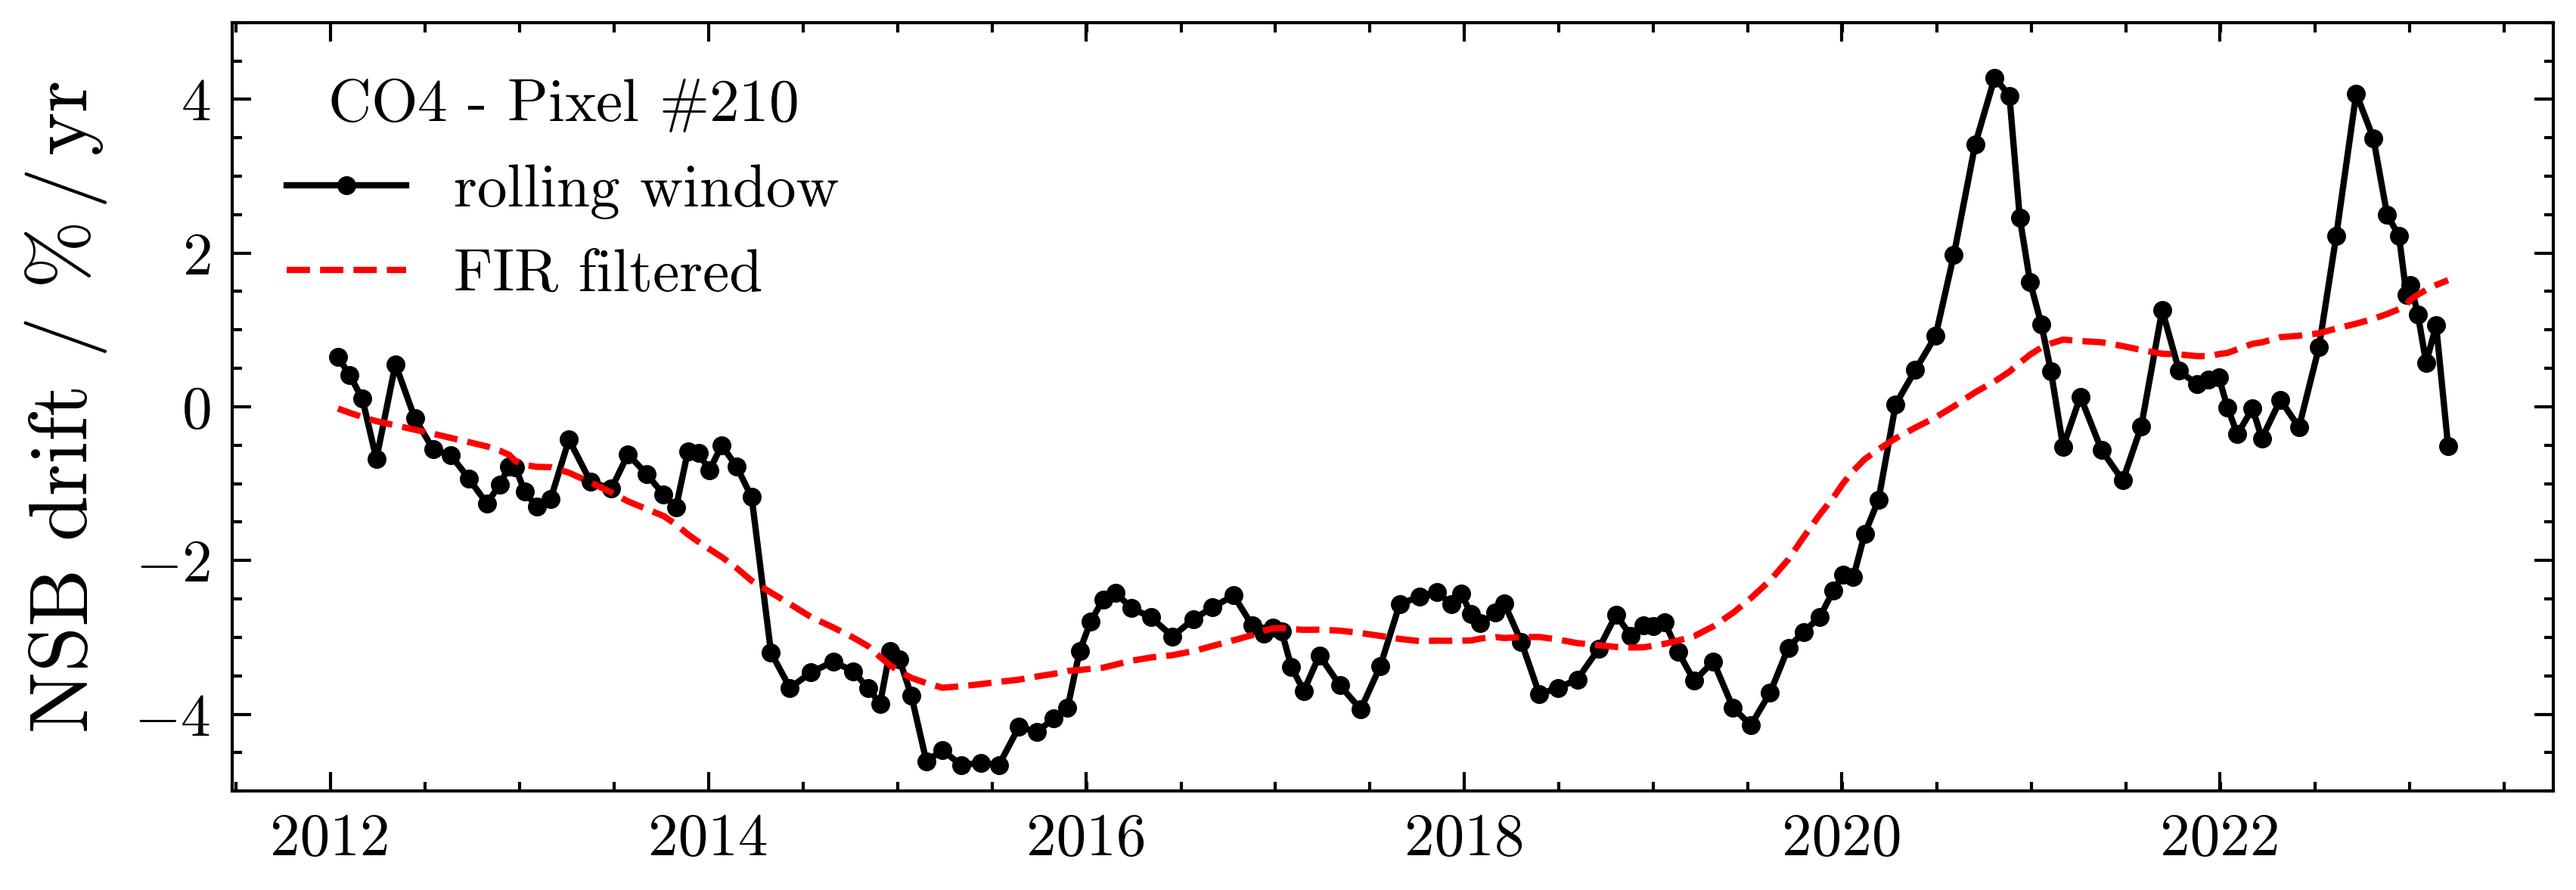
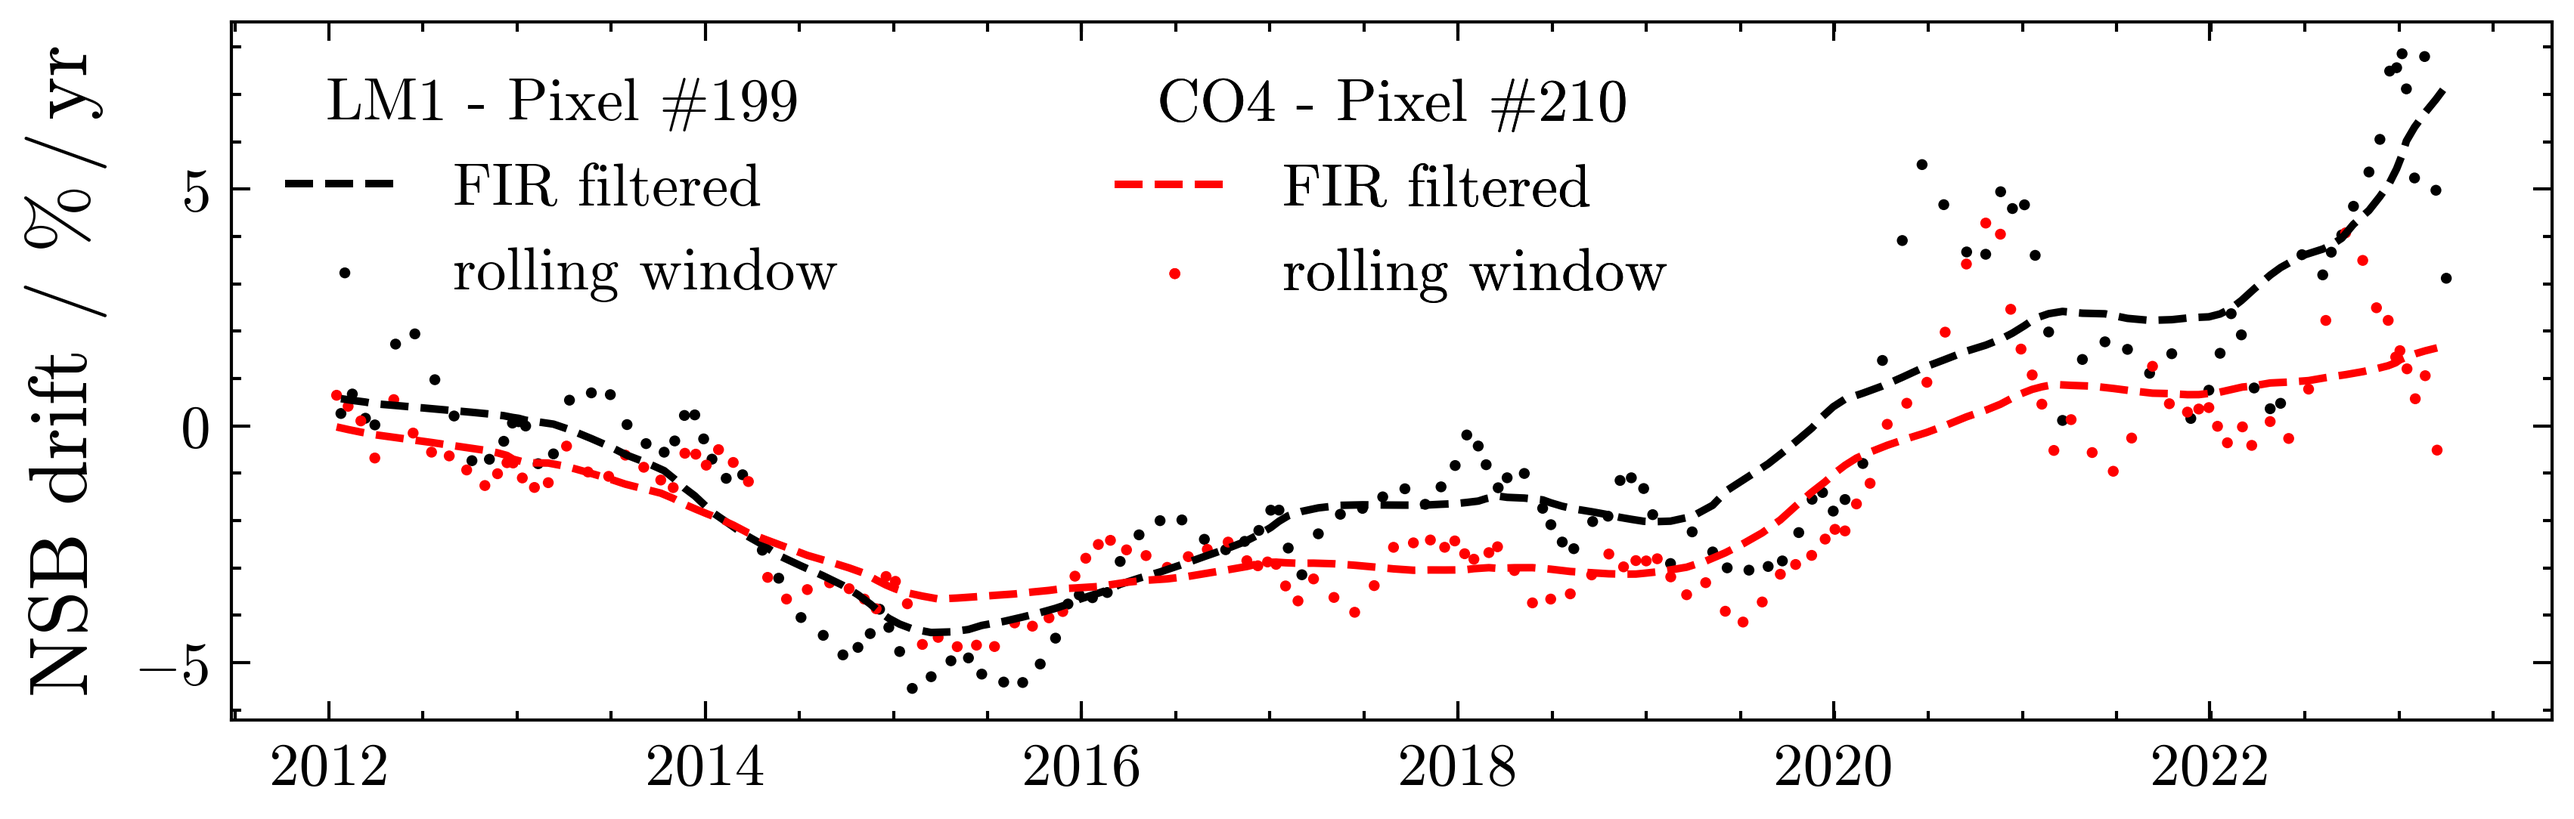
rolling window

diff --git a/chap/04-determination-of-absolute-energy-scale.tex b/chap/04-determination-of-absolute-energy-scale.tex
@@ -1174,32 +1174,24 @@ the linear fit on this sub-sample. Examples of this are shown in
 
 \begin{figure}[t]
   \centering
-  \subfloat[]{\includegraphics[width=1.0\textwidth]{xy-scanner/rolling_window_drift_co4.png}
-  \label{fig:rolling-window-drift-co4}
-  }\hspace{0.2cm}
-  \subfloat[]{\includegraphics[width=1.0\textwidth]{xy-scanner/rolling_window_drift_lm1.png}
-  \label{fig:rolling-window-drift-lm1}
-  }
-  \caption[]{Time dependency of the slope in the linear fit to the \NSB dataset
-  in \subref{fig:rolling-window-drift-co4} pixel \#210 in \CO4, and 
-  \subref{fig:rolling-window-drift-lm1} pixel \#199 in \LM1. The red line gives
+  \includegraphics[width=1.0\textwidth]{xy-scanner/rolling_window_drift.png}
+  \caption{Time dependency of the slope in the linear fit to the \NSB dataset
+  in pixel \#199 in \LM1 (black) and \#210 in \CO4 (red). The dashed lines give
   a smoothed trend.}
   \label{fig:rolling-window-drift}
-\end{figure}
+\end{figure}	
 
 The evident time-dependency of the fitted slope immediately call the assumption
 of a constant drift into question. While a (linear?) drift does seem to be 
 inherent to $\upsigma^2_\mathrm{NSB}$, the rate of ageing cannot be constant.
 
-Worse still, the temporal evolution in \cref{fig:rolling-window-drift-co4} and 
-\cref{fig:rolling-window-drift-lm1} look similar, but in detail are site- and 
-pixel-dependent. 
-
-Using instead a \FIR Savitzky-Golay filter with window length 24 months and 
-polynomial order of one, we can coarsely subdivide the datasets into epochs 
-where the drift magnitude is decreasing, stable, or increasing. The reasons for
-these trends may be multifaceted. A list of candidate causes (without any order
-of importance or significance) can be found below:
+Worse still, the temporal evolution in \cref{fig:rolling-window-drift} look 
+similar, but in detail are site- and pixel-dependent. Using a \FIR 
+Savitzky-Golay filter with window length 24 months and polynomial order of one,
+we can coarsely subdivide the datasets into epochs where the drift magnitude is
+decreasing, stable, or increasing. The reasons for these trends may be 
+multifaceted. A list of candidate causes (without any order of importance or 
+significance) can be found below:
 
 \begingroup
 \renewcommand\arraystretch{2}
@@ -1311,9 +1303,27 @@ the XY-Scanner due to the relative tracking algorithm failing to account for
 the ageing of telescope components.\footnote{The only ageing being tracked by
 the calibration A is that of the pixel-\PMTs.}
 
-`
+We quantify how this mismatch between measured and used calibration constants
+affects reconstructed quantities in the following section, and offer an 
+alternative tracking algorithm for the $C^i_\mathrm{abs}$. Finally, we analyze
+how shower quantities change when using the updated calibration constants 
+during event reconstruction.
 
 \subsection{Alternative Tracking Algorithm}
+
+The current \FD calibration tracking algorithm, which employs the signal 
+strength $S_\mathrm{LCU}$ of the calibration A light source, as well as the 
+detected signal $S_\mathrm{CalA}$ in the telescope camera is given in 
+\cref{eq:cal-a-propagation}. Naively, this algorithm can be amended to
+introduce an end-to-end tracker of the telescope sensitivity, namely the \NSB 
+introduced in \cref{sec:night-sky-background}.
+
+\begin{equation}
+\label{eq:nsb-tracking}
+C^i_\mathrm{abs} = C^i_\mathrm{ref}\,\cdot\,\frac{\upsigma^2_{\mathrm{NSB}\,\mathrm{ref}}}{\upsigma^2_{\mathrm{NSB}}} 
+\end{equation}
+
+
 
 \subsubsection{NSB Variance During XY Measurement}
 \label{sssec:nsb-during-xy-scans}
